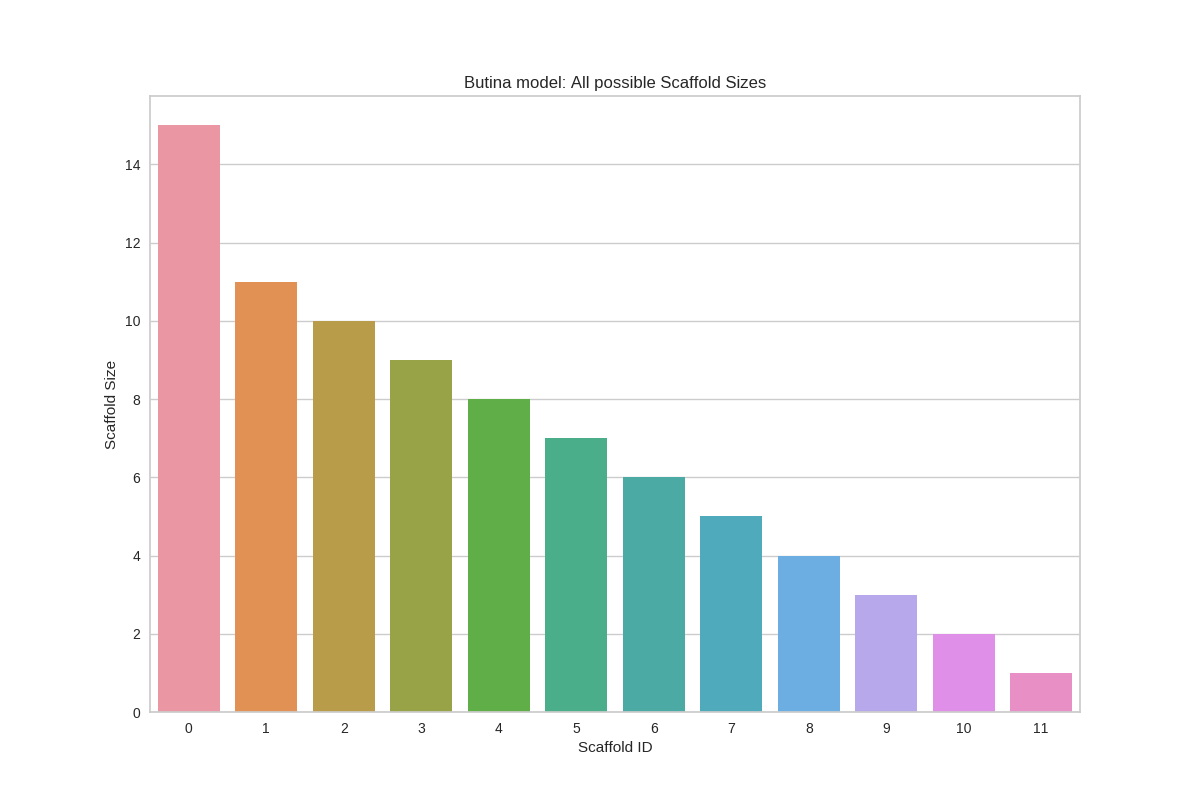
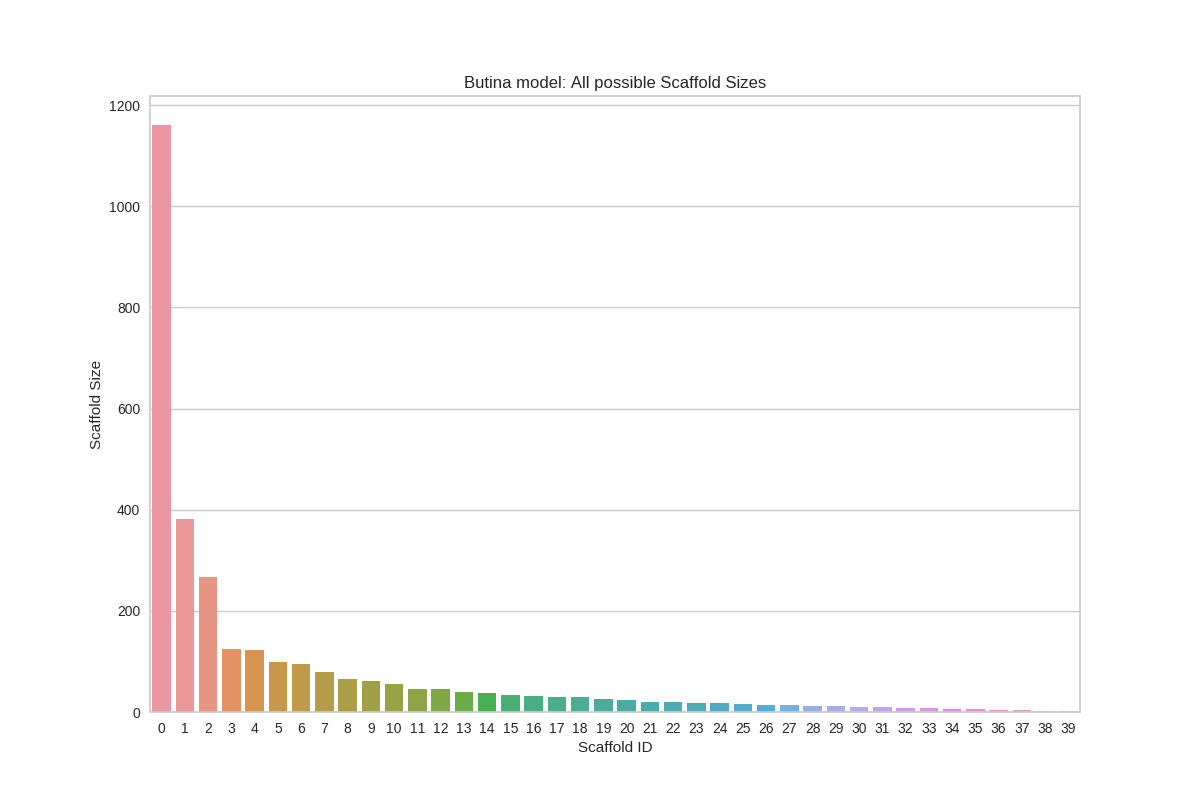
benchmark update

Changed region(s): [[0.0617, 0.1562, 0.8942, 0.9375], [0.0925, 0.125, 0.1233, 0.1562]]

diff --git a/benchmark1_3.py b/benchmark1_3.py
@@ -11,16 +11,25 @@ from deepchem.models import GraphConvModel, WeaveModel
 from deepchem.models import MultitaskRegressor
 from deepchem.splits import RandomSplitter
 
-from preprocessing import ScaffoldSplitterNew
+from preprocessing import ScaffoldSplitterNew, ButinaSplitterNew, MolecularWeightSplitterNew
 from data import load_wang_data_gcn
+from sklearn.cluster import MiniBatchKMeans
+
+# Dict with params for KMeans
+kmeans_dict = {
+    "n_clusters": 3, 
+    "random_state": 44, 
+    "batch_size": 6, 
+    "max_iter": 10
+    }
 
 # GCN models used for the benchmark
 model_dict = {
     "GraphConv": GraphConvModel,
     "Weave": WeaveModel,
     "ECFP": MultitaskRegressor,
-}
-path_results = "./results/benchmark1_3/results_benchmark1_3.json"
+    }
+path_base = "./results/benchmark1_3/results_benchmark1_3_"
 
 def get_model(model_name: str):
     if model_name == "ECFP":
@@ -39,54 +48,67 @@ def get_model(model_name: str):
                           tensorboard_log_frequency=25)
     return model
 
+splitter_dict ={
+    "MolecularWeight": MolecularWeightSplitterNew(),
+    "Butina": ButinaSplitterNew(),
+    "Scaffold": ScaffoldSplitterNew(), 
+    }
+
+
 if __name__ == "__main__":
     results = {}
 
-    for model_name, model_obj in model_dict.items():
-        results[model_name] = {}
-        featurizer = model_name
-        wang_tasks, wang_dataset, wang_transformers =\
-            load_wang_data_gcn(featurizer, split='index', frac_train=0.99,
-                               frac_test=0.005, frac_valid=0.005)
-        wang_train, wang_valid, wang_test = wang_dataset
-        metric = dc.metrics.Metric(dc.metrics.mae_score)
-        splitter = ScaffoldSplitterNew()
-        splitter_rand = RandomSplitter() # For CV
+    for splitter_name, splitter in splitter_dict.items():
+        results[splitter_name] = {}
+        for model_name, model_obj in model_dict.items():
+            results[splitter_name][model_name] = {}
+            featurizer = model_name
+            wang_tasks, wang_dataset, wang_transformers =\
+                load_wang_data_gcn(featurizer, split='index', frac_train=0.99,
+                                frac_test=0.005, frac_valid=0.005)
+            wang_train, wang_valid, wang_test = wang_dataset
+            metric = dc.metrics.Metric(dc.metrics.mae_score)
+            splitter_rand = RandomSplitter() # For CV
 
-        # Get two biggest scaffolds
-        scaffold_sets = splitter.generate_scaffolds(wang_train)
-        scaffold_sets_filt = [sfd for sfd in scaffold_sets if len(sfd) >= 800]
-    
-        assert len(scaffold_sets_filt) == 2 # Should be 2 for Wang dataset
+            # Get two biggest scaffolds
+            if splitter_name == "Butina":
+                scaffold_sets = splitter.generate_scaffolds(wang_train, cutoff=0.8)
+            if splitter_name == "MolecularWeight":
+                splitter.split(wang_train)
+                scaffold_sets = splitter.generate_scaffolds(MiniBatchKMeans, kmeans_dict)
+            else:
+                scaffold_sets = splitter.generate_scaffolds(wang_train)
+            logging.info(f"Scaffolds sets size: {len(scaffold_sets)}")
+            scaffold_sets_filt = [sfd for sfd in scaffold_sets if len(sfd) >= 100]
+        
+            for sfd_filt in scaffold_sets_filt:
+                sfd_name = "scaffold_" + str(len(sfd_filt))
+                results[splitter_name][model_name][sfd_name] = {}
+                logging.info(f"Scaffold size: {len(sfd_filt)}")
 
-        for sfd_filt in scaffold_sets_filt:
-            sfd_name = "scaffold_" + str(len(sfd_filt))
-            results[model_name][sfd_name] = {}
-            logging.info(f"Scaffold size: {len(sfd_filt)}")
+                data_subset = wang_train.select(indices=sfd_filt)
+                k_fold = splitter_rand.k_fold_split(data_subset, k=10)
+                for i, fold in enumerate(k_fold):
+                    model = get_model(model_name)
+                    train, valid = fold
+                    logging.info(f"Train size: {len(train)}, Valid size: {len(valid)}")
+                    
+                    model.fit(train)
+                    train_scores = model.evaluate(train,
+                                                [metric],
+                                                wang_transformers)
+                    valid_scores = model.evaluate(valid,
+                                                [metric],
+                                                wang_transformers)
 
-            data_subset = wang_train.select(indices=sfd_filt)
-            k_fold = splitter_rand.k_fold_split(data_subset, k=10)
-            for i, fold in enumerate(k_fold):
-                model = get_model(model_name)
-                train, valid = fold
-                logging.info(f"Train size: {len(train)}, Valid size: {len(valid)}")
-                
-                model.fit(train)
-                train_scores = model.evaluate(train,
-                                              [metric],
-                                              wang_transformers)
-                valid_scores = model.evaluate(valid,
-                                              [metric],
-                                              wang_transformers)
+                    fold_name = "fold_" + str(i)
+                    results[splitter_name][model_name][sfd_name][fold_name] = {}
+                    results[splitter_name][model_name][sfd_name][fold_name]["train score"] = train_scores
+                    results[splitter_name][model_name][sfd_name][fold_name]["valid score"] = valid_scores
+                    # Make sure to use a new model each time
+                    del model
 
-                fold_name = "fold_" + str(i)
-                results[model_name][sfd_name][fold_name] = {}
-                results[model_name][sfd_name][fold_name]["train score"] = train_scores
-                results[model_name][sfd_name][fold_name]["valid score"] = valid_scores
-                # Make sure to use a new model each time
-                del model
-
-        # Update results file after each model
-        with open(path_results, 'w') as outfile:    
-            json.dump(results, outfile)
-            logging.info("Succesful save to json file")
+            # Update results file after each model
+            with open(path_results + splitter_name + ".json", 'w') as outfile:    
+                json.dump(results, outfile)
+                logging.info("Succesful save to json file")

diff --git a/utils.py b/utils.py
@@ -3,7 +3,9 @@ import logging
 import json
 
 import numpy as np
+import pandas as pd
 from rdkit import Chem
+import seaborn as sns
 
 from preprocessing import ScaffoldSplitterNew
 
@@ -46,6 +48,42 @@ def sort_benchmark1_results(path_read: str, path_write: str):
         json.dump(results_dict, json_f)
 
 
+def visualize_benchmark1_3_results(path_read: str, path_write: str):
+    results_dict = {}
+    with open(path_read, 'r') as json_f:
+        results_dict = json.load(json_f)
+
+    data_plot = {}
+    for model_name, dict1 in results_dict.items():
+        data_plot[model_name] = {}
+        for scaffold_name, dict2 in dict1.items():
+            data_plot[model_name][scaffold_name] = {}
+            arr_temp = []
+            for fold_name, dict3 in dict2.items():
+                arr_temp.append(dict3["valid score"]["mae_score"])
+            data_plot[model_name][scaffold_name]["valid_mae"] = arr_temp
+
+    # Save the data for preliminary insights
+    with open(path_write, 'w') as json_f:
+        json.dump(data_plot, json_f)
+
+    df_converter = {
+        "model": [], 
+        "scaffold": [],
+        "mae": [],
+        }
+
+    for model_name, dict1 in data_plot.items():
+        for scaffold, dict2 in dict1.items():
+            for el in dict2["valid_mae"]:
+                df_converter["model"].append(model_name)
+                df_converter["scaffold"].append(scaffold)
+                df_converter["mae"].append(el)
+
+    df = pd.DataFrame(df_converter)
+    ax = sns.boxplot(x="model", y="mae", hue="scaffold", data=df_converter)
+    ax.figure.savefig(path_write[:-4] + "boxplots.png")
+
 def generate_scaffold_metrics(model, data_valid, metric, transformers):
     results = {}
     splitter = ScaffoldSplitterNew()
@@ -72,5 +110,10 @@ def generate_scaffold_metrics(model, data_valid, metric, transformers):
     return results
 
 if __name__ == "__main__":
+    """
     sort_benchmark1_results("./results/benchmark1_2/results_benchmark1_2.json",
                             "./results/benchmark1_2/results_benchmark1_2_sorted.json")
+    """
+
+    visualize_benchmark1_3_results("./results/benchmark1_3/results_benchmark1_3.json",
+                                   "./results/benchmark1_3/results_benchmark1_3_for_plots.json")

diff --git a/scaffolds_analyze.py b/scaffolds_analyze.py
@@ -20,8 +20,11 @@ if __name__ == "__main__":
     wang_train, wang_valid, wang_test = wang_dataset
     
     for name, splitter in splitter_dict.items():
+        if name == "Butina":
+            scaffold_sets = splitter.generate_scaffolds(wang_train, cutoff=0.8)
+        else:
+            scaffold_sets = splitter.generate_scaffolds(wang_train)
 
-        scaffold_sets = splitter.generate_scaffolds(wang_train)
         scaffold_dict = {k: v for k, v in enumerate(scaffold_sets)}
         scaffold_dict_sum = {k: len(v) for k, v in enumerate(scaffold_sets)}
         scaffold_dict_sum = {k: v for k, v in
@@ -69,7 +72,7 @@ if __name__ == "__main__":
     print(f"splitter.mws: {splitter_mw.mws}")
     print(f"splitter.sortidx: {splitter_mw.sortidx}")
 
-    kmeans = MiniBatchKMeans(n_clusters=5,
+    kmeans = MiniBatchKMeans(n_clusters=3,
                                 random_state=44,
                                 batch_size=6,
                                 max_iter=10)
@@ -77,3 +80,15 @@ if __name__ == "__main__":
     mws = np.array(splitter_mw.mws).reshape(-1, 1)
     visualizer.fit(mws)
     visualizer.show(outpath=path_results + "/mws_elbow.png")
+
+    model_dict = {
+        "n_clusters": 3, 
+        "random_state": 44, 
+        "batch_size": 6, 
+        "max_iter": 10
+        }
+    scaffold_sets = splitter_mw.generate_scaffolds(MiniBatchKMeans, model_dict)
+    print(scaffold_sets)
+    print(len(scaffold_sets))
+    for arr in scaffold_sets:
+        print(f"Lengthof the array: {len(arr)}")

diff --git a/preprocessing/custom_splitters.py b/preprocessing/custom_splitters.py
@@ -1,4 +1,5 @@
 import numpy as np
+from sklearn.cluster import MiniBatchKMeans
 import deepchem
 from deepchem.splits import Splitter
 from deepchem.utils import ScaffoldGenerator
@@ -80,12 +81,12 @@ class MolecularWeightSplitterNew(Splitter):
     Class for doing data splits by molecular weight.
     """
     def split(self,
-                dataset,
-                seed=None,
-                frac_train=.8,
-                frac_valid=.1,
-                frac_test=.1,
-                log_every_n=None):
+            dataset,
+            seed=None,
+            frac_train=.8,
+            frac_valid=.1,
+            frac_test=.1,
+            log_every_n=None):
         """
         Splits internal compounds into train/validation/test using the MW calculated
         by SMILES string.
@@ -111,6 +112,16 @@ class MolecularWeightSplitterNew(Splitter):
         return (self.sortidx[:train_cutoff], self.sortidx[train_cutoff:valid_cutoff],
                 self.sortidx[valid_cutoff:])
 
+    def generate_scaffolds(self, sklearn_model, model_dict):
+        model = sklearn_model(**model_dict)
+        labels = model.fit_predict(self.mws.reshape(-1, 1))
+        labels_ids = np.unique(labels)
+        sets_id = []
+
+        for id in labels_ids:
+            sets_id.append(self.sortidx[labels == id])
+        
+        return tuple(sets_id)
 
 def ClusterFps(fps, cutoff=0.2):
     # (ytz): this is directly copypasta'd from Greg Landrum's clustering example.
